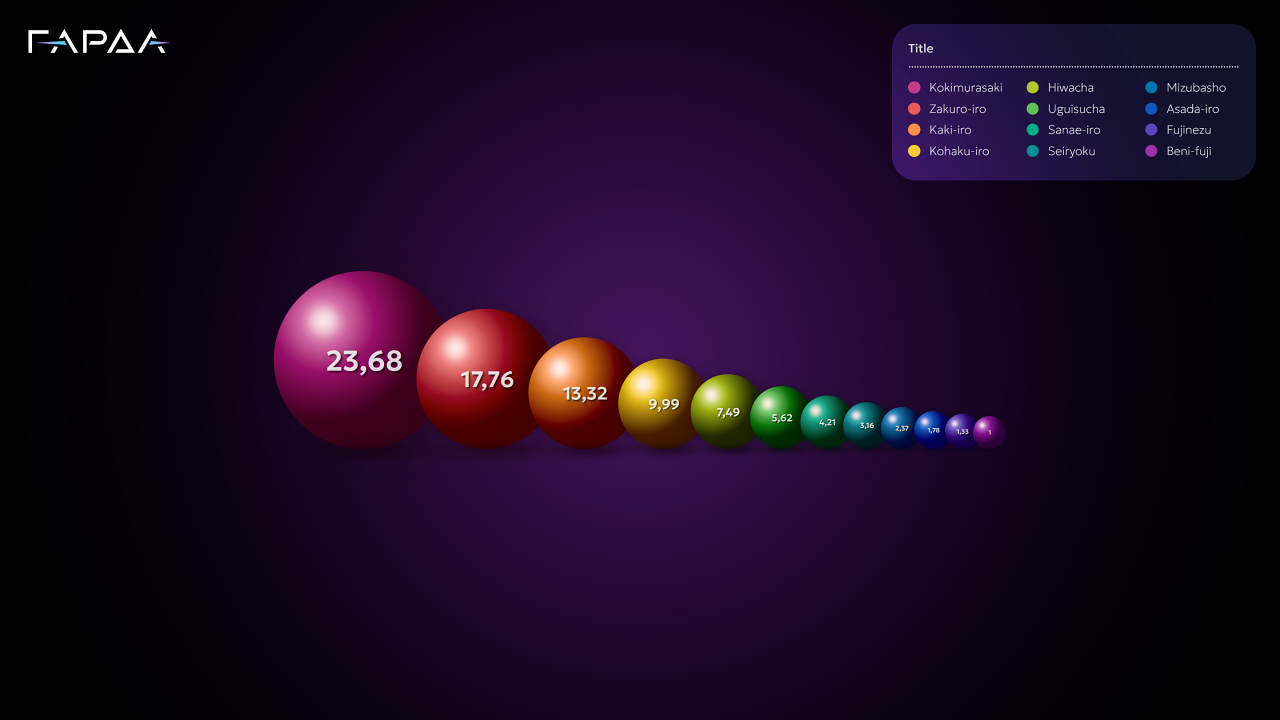
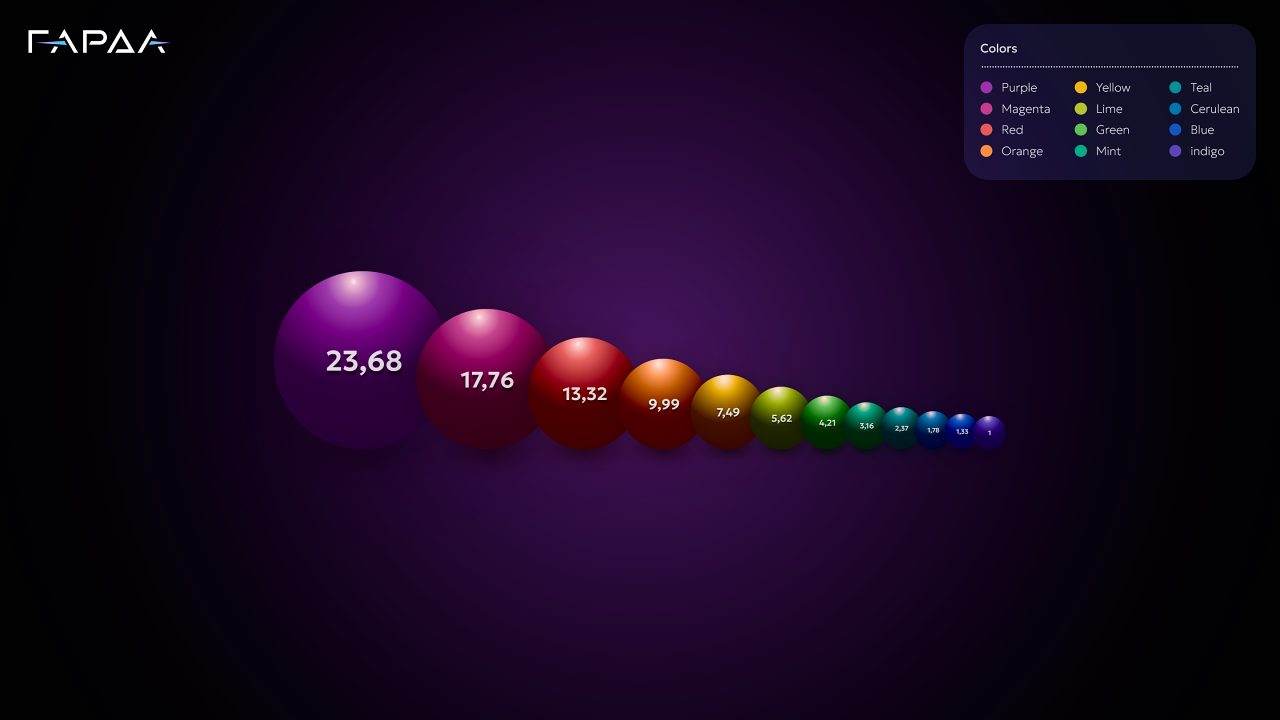
Updates

Changed region(s): [[0.1875, 0.3667, 0.7812, 0.6417], [0.6875, 0.0306, 0.9688, 0.275]]

diff --git a/index.html b/index.html
@@ -15,7 +15,7 @@
 	<meta property="og:url"
 				content="https://nazhdaque.github.io/spheres/">
 	<meta property="og:image"
-				content="preview.png">
+				content="https://nazhdaque.github.io/spheres/preview.png">
 	<meta property="og:image:width"
 				content="1280">
 	<meta property="og:image:height"
@@ -30,7 +30,7 @@
 	<meta name="twitter:url"
 				content="https://nazhdaque.github.io/spheres/">
 	<meta name="twitter:image"
-				content="preview.png">
+				content="https://nazhdaque.github.io/spheres/preview.png">
 	<!-- // -->
 	<meta name="description"
 				content="Infographic">
